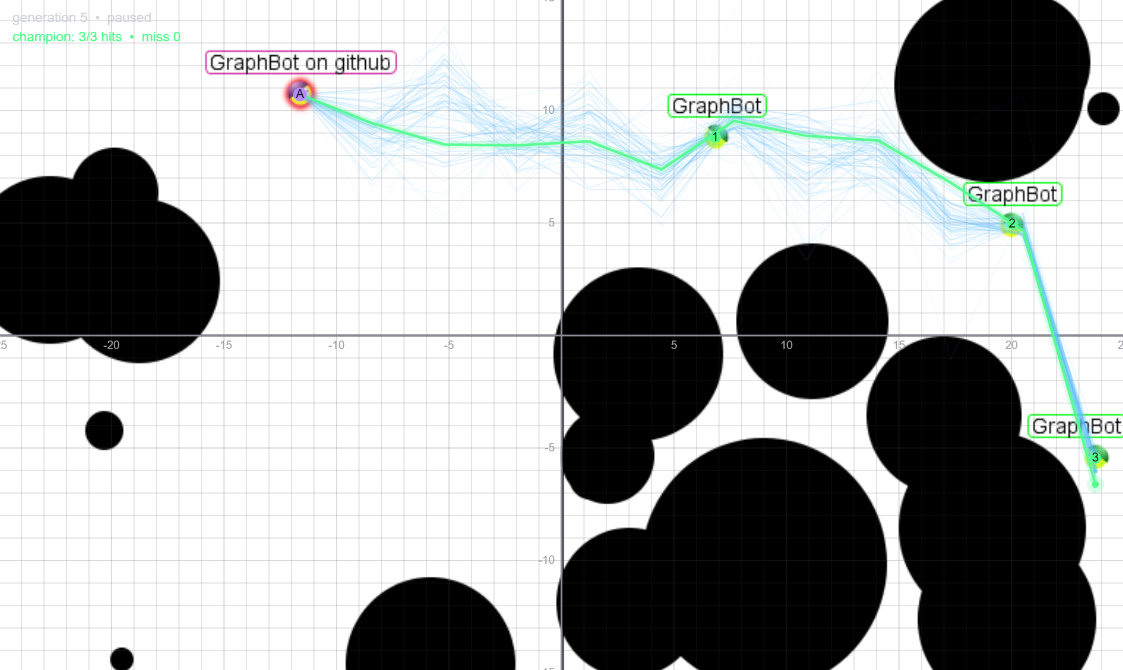
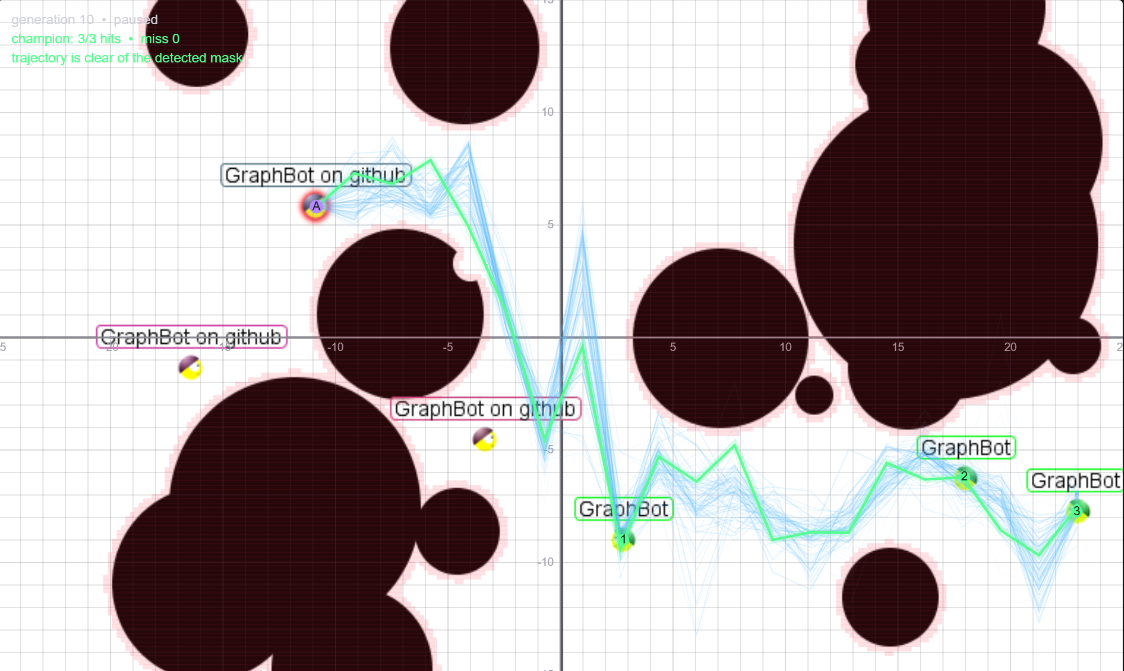
Add Draw mode example and refresh Dot screenshot

diff --git a/README.md b/README.md
@@ -262,10 +262,10 @@ If active-player detection fails, tune `tools/calibrate_active.py`.
 Draw mode lives in the [web UI](#web-ui-recommended) only. Sketch a curve, sample it into a dataset, and approximate with one of four methods.
 
 <p align="center">
-  <img src="docs/images/draw-mode-overview.png" alt="Draw mode — sketch, dataset, and approximation (add screenshot here)" width="720" />
+  <img src="docs/images/draw-mode-example.png" alt="Draw mode building a Fourier approximation from sampled curve points" width="900" />
 </p>
 
-> **Screenshot placeholder:** save your best draw-mode UI capture as `docs/images/draw-mode-overview.png`.
+<p align="center"><em>Draw mode — sampled curve points and the resulting Fourier approximation on a captured Graphwar field.</em></p>
 
 ### From stroke to dataset
 
